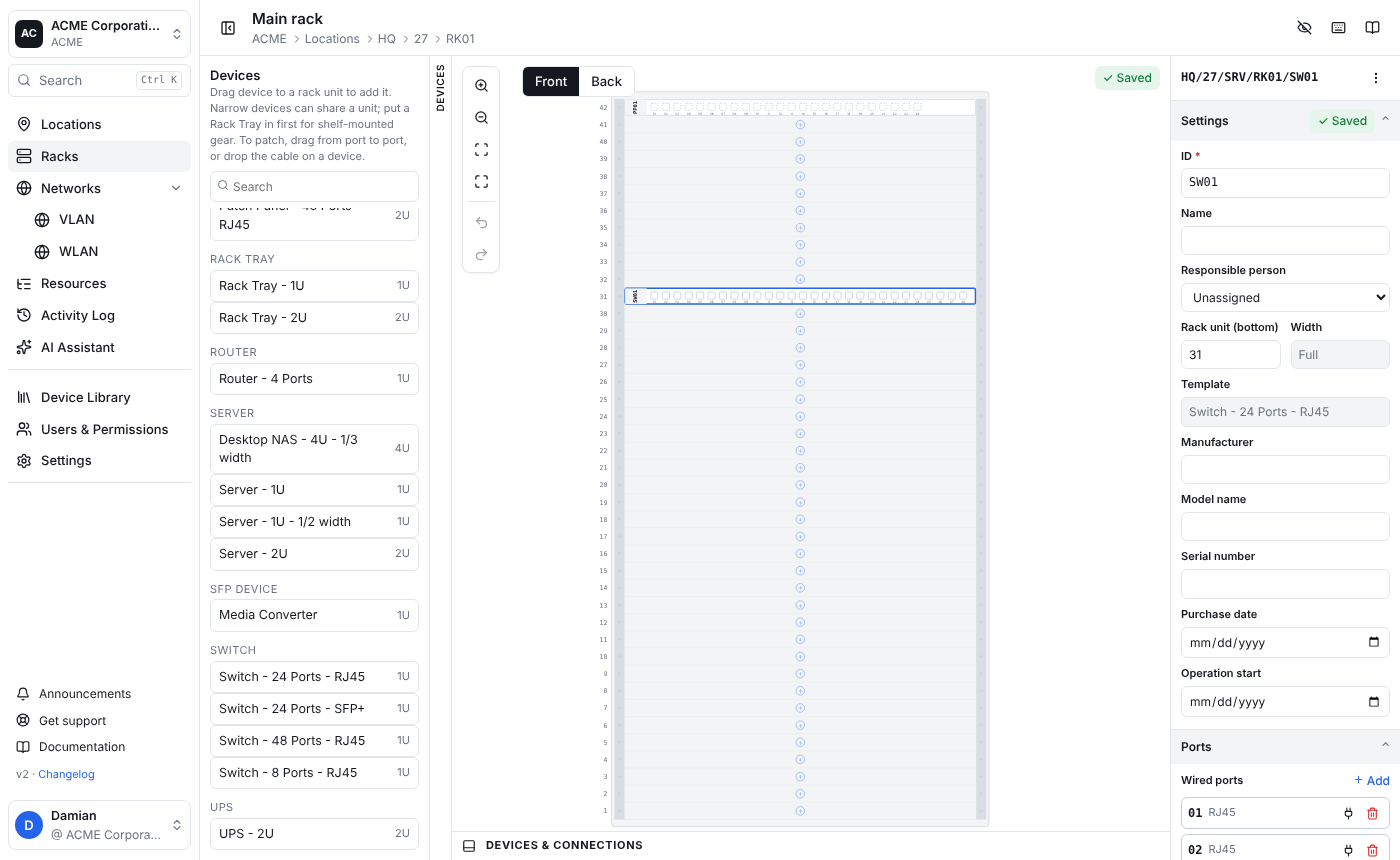
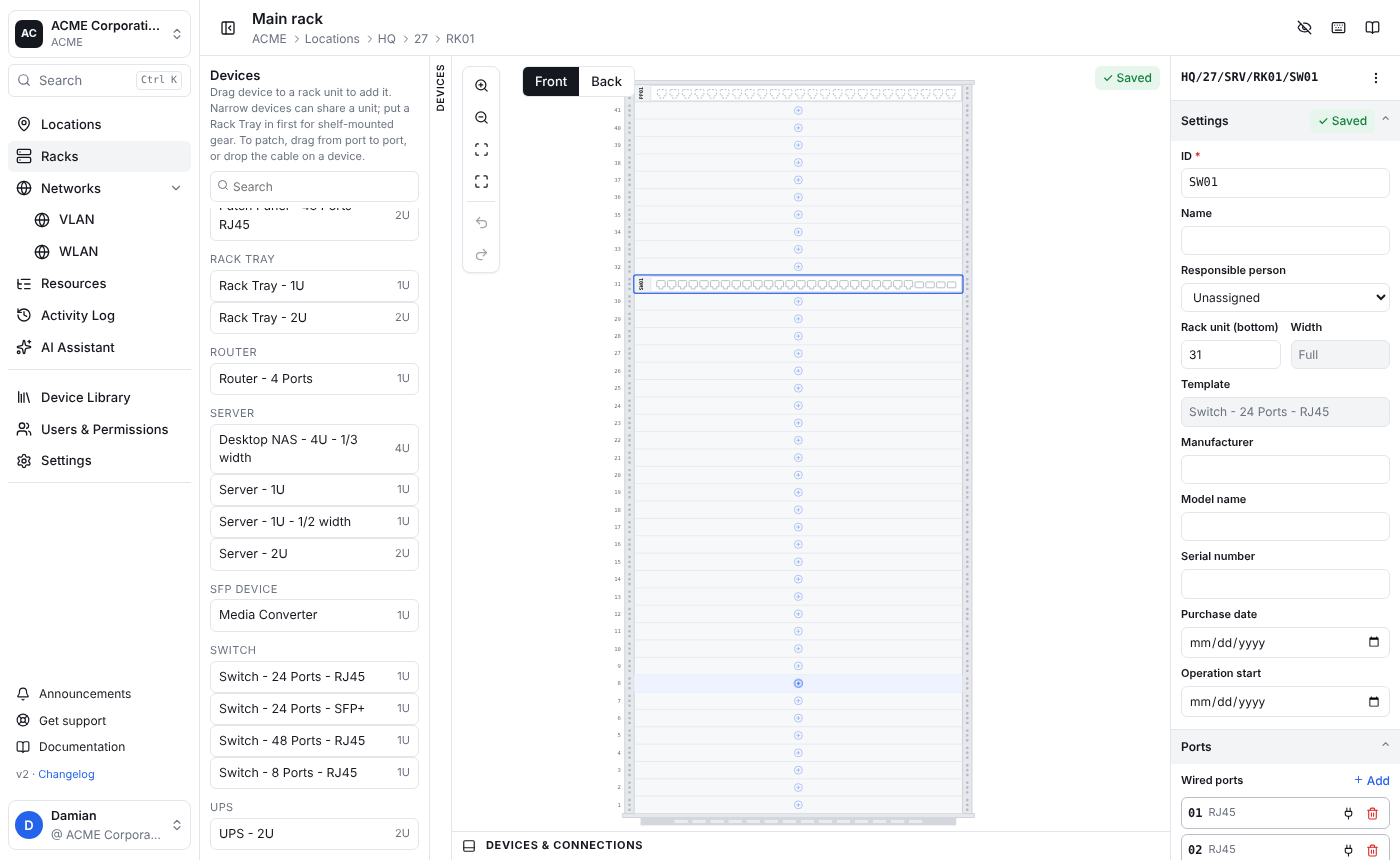
Rack editor: crisper rendering
Non-scaling 1px strokes so lines stay sharp at any zoom, RJ45/SFP/
fibre/power port glyphs with state fills, light rails with mounting
holes, caps and base, white panels with a label strip, cables routed
to a right-hand gutter with rounded corners and crossing-minimising
lane order, port names shown once zoomed in, hover feedback on ports,
devices and empty units, and a drop highlight for the target unit.

Claude-Session: https://claude.ai/code/session_011uBBfhKSoHq9VrWUfKxGfE

Changed region(s): [[0.43, 0.0907, 0.7064, 0.9674], [0.5529, 0.786, 0.5836, 0.8163]]

diff --git a/src/web/src/pages/RackEditor.tsx b/src/web/src/pages/RackEditor.tsx
@@ -12,7 +12,7 @@ import { ShortcutsHelp } from './LocationView';
 import { panelLayout } from './DeviceLibrary';
 import { zoomAt, type View } from '../components/canvas';
 
-const UH = 24; const RW = 520; const LEFT = 70; const RAIL = 14; const PAD = 16; const PAD_TOP = 60; const GUT = 80;
+const UH = 22; const RW = 440; const LEFT = 44; const RAIL = 12; const PAD = 22; const PAD_TOP = 36; const GUT = 76; const CAP = 5;
 const INNER = RW - RAIL * 2 - 2; // usable width inside the rails
 const snapSlot = (x: number, width: number) => Math.max(0, Math.min(100 - width, Math.round((x * 12) / 100) * (100 / 12)));
 const panelX = (d: { slot_x: number }) => LEFT + RAIL + 1 + (INNER * d.slot_x) / 100;
@@ -109,31 +109,66 @@ function TemplatePalette({ templates, canEdit }: { templates: Template[]; canEdi
     <div className="palette-list-items">{groups.map(([type, list]) => <div key={type}><div className="palette-group-label">{type}</div>{list.map((t) => <div key={t.id} className="palette-item-dev" draggable={canEdit} onDragStart={(e) => { e.dataTransfer.setData('text/rd-template', String(t.id)); e.dataTransfer.effectAllowed = 'copy'; }} title={`${t.height_u}U · ${t.ports.length} ports`}><span style={{ flex: 1 }}>{t.name}</span><span className="muted tiny">{t.height_u}U</span></div>)}</div>)}</div></div>;
 }
 
+/** Polyline → path with rounded corners (radius r). */
+function roundedPath(pts: [number, number][], r = 4) {
+  if (pts.length < 2) return '';
+  let d = `M ${pts[0][0]} ${pts[0][1]}`;
+  for (let i = 1; i < pts.length - 1; i++) {
+    const [px, py] = pts[i - 1], [cx, cy] = pts[i], [nx, ny] = pts[i + 1];
+    const d1 = Math.hypot(cx - px, cy - py), d2 = Math.hypot(nx - cx, ny - cy); const rr = Math.min(r, d1 / 2, d2 / 2);
+    const ax = cx - ((cx - px) / d1) * rr, ay = cy - ((cy - py) / d1) * rr; const bx = cx + ((nx - cx) / d2) * rr, by = cy + ((ny - cy) / d2) * rr;
+    d += ` L ${ax} ${ay} Q ${cx} ${cy} ${bx} ${by}`;
+  }
+  const [lx, ly] = pts[pts.length - 1]; return `${d} L ${lx} ${ly}`;
+}
+/** Connector glyph by port kind, drawn in an s×s box with its origin at the top-left. */
+function PortGlyph({ kind, s, fill, stroke, dashed }: { kind: string; s: number; fill: string; stroke: string; dashed?: boolean }) {
+  const common = { fill, stroke, strokeWidth: 1, vectorEffect: 'non-scaling-stroke' as const, strokeDasharray: dashed ? '2 1.5' : undefined };
+  if (kind === 'power') return <circle cx={s / 2} cy={s / 2} r={s / 2} {...common} />;
+  if (kind === 'sfp' || kind === 'sfp+' || kind === 'qsfp') return <rect x={0} y={s * 0.15} width={s} height={s * 0.7} rx={1} {...common} />;
+  if (kind === 'lc' || kind === 'sc' || kind === 'e2000' || kind === 'mpo') return <g><rect x={0} y={0} width={s} height={s} rx={1} {...common} /><circle cx={s * 0.32} cy={s / 2} r={s * 0.14} fill={stroke} /><circle cx={s * 0.68} cy={s / 2} r={s * 0.14} fill={stroke} /></g>;
+  // RJ45: square body with the latch tab at the bottom
+  const t = s * 0.28;
+  return <path d={`M 1 0 H ${s - 1} Q ${s} 0 ${s} 1 V ${s - t} H ${s * 0.72} V ${s} H ${s * 0.28} V ${s - t} H 0 V 1 Q 0 0 1 0 Z`} {...common} />;
+}
+
 function RackCanvas({ rack, face, view, setView, fitMode, selDev, selPort, canEdit, hoverChain, setHoverChain, vlanPorts, conns, onSelectDevice, onSelectPort, onEmptyClick, onDropTemplate, onMoveDevice, onConnect, onClearVlan, onKeystoneMissing, onWireToDevice }: {
   rack: RackDetail; face: Face; view: View; setView: (v: View) => void; fitMode: 'height' | 'width'; selDev: number | null; selPort: number | null; canEdit: boolean; hoverChain: Set<number> | null; setHoverChain: (s: Set<number> | null) => void; vlanPorts: Set<number> | null; conns: Connection[];
   onSelectDevice: (id: number | null) => void; onSelectPort: (dev: number, port: number) => void; onEmptyClick: (u: number) => void; onDropTemplate: (tplId: number, u: number) => void; onMoveDevice: (devId: number, u: number, slotX: number) => void; onConnect: (a: number, b: number) => void; onClearVlan: () => void; onKeystoneMissing: (p: Port, dev: RackDevice) => void; onWireToDevice: (fromPort: number, deviceId: number) => void }) {
   const svgRef = useRef<SVGSVGElement>(null);
-  const H = rack.height_u * UH + PAD + PAD_TOP; const W = LEFT + RW + GUT + 20;
+  const H = rack.height_u * UH + PAD + PAD_TOP; const W = LEFT + RW + GUT;
   const [drag, setDrag] = useState<null | { kind: 'pan'; sx: number; sy: number; v: View } | { kind: 'device'; id: number; startX: number; startY: number; dx: number; dy: number } | { kind: 'wire'; from: number; x: number; y: number }>(null);
+  const [dropU, setDropU] = useState<number | null>(null);
+  const [pxPerUnit, setPxPerUnit] = useState(1);
   const yOfTop = (topU: number) => PAD_TOP + (rack.height_u - topU) * UH;
   const scale = () => { const r = svgRef.current!.getBoundingClientRect(); return fitMode === 'height' ? Math.min(r.width / W, r.height / H) : r.width / W; };
+  useEffect(() => { const el = svgRef.current; if (!el) return; const upd = () => setPxPerUnit(scale() * view.k); upd(); const ro = new ResizeObserver(upd); ro.observe(el); return () => ro.disconnect(); }, [view.k, fitMode]); // eslint-disable-line react-hooks/exhaustive-deps
   const toSvg = (e: { clientX: number; clientY: number }) => { const r = svgRef.current!.getBoundingClientRect(); const s = scale(); const ox = fitMode === 'height' ? (r.width - W * s) / 2 : 0; return { x: ((e.clientX - r.left - ox) / s - view.tx) / view.k, y: ((e.clientY - r.top) / s - view.ty) / view.k }; };
+  const unitAt = (y: number) => Math.max(1, Math.min(rack.height_u, Math.ceil((H - PAD - y) / UH)));
   const occupied = useMemo(() => { const m = new Map<number, RackDevice>(); for (const d of rack.devices) { if (d.is_tray || d.width_pct < 100) continue; for (let u = d.position_u ?? 0; u < (d.position_u ?? 0) + d.height_u; u++) m.set(u, d); } return m; }, [rack]);
-  // port geometry (device id -> port id -> {x,y,s})
+  const labelWOf = (pw: number) => (pw < 200 ? 12 : 20);
+  // port geometry (port id -> {x,y,s})
   const geom = useMemo(() => {
     const g = new Map<number, { x: number; y: number; s: number; dev: RackDevice; port: Port }>();
     for (const d of rack.devices) {
       const ports = d.ports.filter((p) => p.face === face && p.kind !== 'wireless'); if (!ports.length) continue;
-      const h = d.height_u * UH; const pw = panelW(d); const labelW = pw < 200 ? 18 : 30; const { rows, cols, cell } = panelLayout(ports, d.height_u, pw + 50 - labelW - 6); const top = yOfTop((d.position_u ?? 1) + d.height_u - 1);
-      ports.forEach((p, i) => { const r = Math.floor(i / cols), c = i % cols; const s = Math.min(cell - 3, (h - 8) / rows - 6); const x = panelX(d) + labelW + 6 + c * cell; const y = top + 4 + r * (h - 8) / rows + 2; g.set(p.id, { x, y, s, dev: d, port: p }); });
+      const h = d.height_u * UH; const pw = panelW(d); const labelW = labelWOf(pw); const avail = pw - labelW - 12;
+      const maxRows = Math.max(1, Math.min(d.height_u * 2, 4)); let rows = 1; while (Math.ceil(ports.length / rows) * 11 > avail && rows < maxRows) rows++;
+      const cols = Math.ceil(ports.length / rows); const cell = Math.min(18, avail / cols); const rowH = (h - 6) / rows; const s = Math.max(4, Math.min(cell - 3, rowH - 5)); const top = yOfTop((d.position_u ?? 1) + d.height_u - 1);
+      const x0 = panelX(d) + labelW + 6 + (avail - cols * cell) / 2 + (cell - s) / 2;
+      ports.forEach((p, i) => { const r = Math.floor(i / cols), c = i % cols; g.set(p.id, { x: x0 + c * cell, y: top + 3 + r * rowH + (rowH - s) / 2 + 1, s, dev: d, port: p }); });
     }
     return g;
   }, [rack, face]); // eslint-disable-line react-hooks/exhaustive-deps
-  const rightX = LEFT + RW + 6;
-  const wires = conns.filter((c) => c.type === 'user' && geom.has(c.port_a_id) && geom.has(c.port_b_id)).map((c, i) => ({ c, a: geom.get(c.port_a_id)!, b: geom.get(c.port_b_id)!, lane: 8 + (i % 10) * 7 }));
+  const rightX = LEFT + RW + 8;
+  const wires = useMemo(() => {
+    const list = conns.filter((c) => c.type === 'user' && geom.has(c.port_a_id) && geom.has(c.port_b_id)).map((c) => ({ c, a: geom.get(c.port_a_id)!, b: geom.get(c.port_b_id)! }));
+    // shorter spans take inner lanes so cables cross as little as possible
+    return list.sort((p, q) => Math.abs(p.a.y - p.b.y) - Math.abs(q.a.y - q.b.y)).map((w, i) => ({ ...w, lane: 6 + (i % 11) * 6 }));
+  }, [conns, geom]);
   const outbound = conns.filter((c) => c.type === 'user' && (geom.has(c.port_a_id) !== geom.has(c.port_b_id))).map((c) => ({ c, g: geom.get(geom.has(c.port_a_id) ? c.port_a_id : c.port_b_id)! }));
   const chainOf = (p: Port) => new Set(p.chain?.steps.map((s) => s.port_id) ?? [p.id]);
-  const portFill = (p: Port, dev: RackDevice) => { if (dev.passive) return p.keystone ? (p.state === 'complete' ? 'var(--port-complete)' : p.state === 'incomplete' ? 'var(--port-incomplete)' : 'var(--port-keystone)') : 'none'; return p.state === 'complete' ? 'var(--port-complete)' : p.state === 'incomplete' ? 'var(--port-incomplete)' : 'none'; };
+  const portFill = (p: Port, dev: RackDevice) => { if (dev.passive && !p.keystone) return 'var(--surface)'; if (p.state === 'complete') return 'var(--port-complete)'; if (p.state === 'incomplete') return 'var(--port-incomplete)'; return dev.passive ? 'var(--port-keystone)' : 'var(--surface)'; };
   const onDown = (e: RPointerEvent<SVGSVGElement>) => { if (e.button !== 0) return; setDrag({ kind: 'pan', sx: e.clientX, sy: e.clientY, v: view }); };
   const onMove = (e: RPointerEvent<SVGSVGElement>) => { if (!drag) return; if (drag.kind === 'pan') { const s = scale(); setView({ ...drag.v, tx: drag.v.tx + (e.clientX - drag.sx) / s, ty: drag.v.ty + (e.clientY - drag.sy) / s }); } else if (drag.kind === 'device') setDrag({ ...drag, dx: (e.clientX - drag.startX) / (scale() * view.k), dy: (e.clientY - drag.startY) / (scale() * view.k) }); else if (drag.kind === 'wire') { const p = toSvg(e); setDrag({ ...drag, x: p.x, y: p.y }); } };
   const onUp = (e: RPointerEvent<SVGSVGElement>) => {
@@ -145,54 +180,74 @@ function RackCanvas({ rack, face, view, setView, fitMode, selDev, selPort, canEd
   };
   const dragY = (d: RackDevice) => drag?.kind === 'device' && drag.id === d.id ? drag.dy : 0;
   const dragX = (d: RackDevice) => drag?.kind === 'device' && drag.id === d.id ? drag.dx : 0;
-  const unitCenters = Array.from({ length: rack.height_u }, (_, i) => rack.height_u - i);
-  return <svg ref={svgRef} className="editor-canvas" viewBox={`0 0 ${W} ${H}`} preserveAspectRatio={fitMode === 'height' ? 'xMidYMin meet' : 'xMinYMin meet'} style={{ cursor: drag?.kind === 'pan' ? 'grabbing' : 'default' }}
+  const units = Array.from({ length: rack.height_u }, (_, i) => rack.height_u - i);
+  const showPortNames = pxPerUnit >= 1.9; const showUnitNumbers = pxPerUnit >= 0.55;
+  const ns = { vectorEffect: 'non-scaling-stroke' as const };
+  const railX = [LEFT, LEFT + RW - RAIL];
+  return <svg ref={svgRef} className="editor-canvas rack-svg" viewBox={`0 0 ${W} ${H}`} preserveAspectRatio={fitMode === 'height' ? 'xMidYMin meet' : 'xMinYMin meet'} style={{ cursor: drag?.kind === 'pan' ? 'grabbing' : 'default' }}
     onPointerDown={onDown} onPointerMove={onMove} onPointerUp={onUp} onPointerCancel={() => setDrag(null)}
     onWheel={(e) => { const p = toSvg(e); setView(zoomAt(view, e.deltaY < 0 ? 1.15 : 1 / 1.15, p.x * view.k + view.tx, p.y * view.k + view.ty)); }}
-    onDragOver={(e) => { if (canEdit && e.dataTransfer.types.includes('text/rd-template')) e.preventDefault(); }} onDrop={(e) => { const t = Number(e.dataTransfer.getData('text/rd-template')); if (!t) return; e.preventDefault(); const p = toSvg(e); const u = Math.max(1, Math.min(rack.height_u, Math.ceil((H - PAD - p.y) / UH))); onDropTemplate(t, u); }}>
+    onDragOver={(e) => { if (canEdit && e.dataTransfer.types.includes('text/rd-template')) { e.preventDefault(); setDropU(unitAt(toSvg(e).y)); } }} onDragLeave={() => setDropU(null)}
+    onDrop={(e) => { setDropU(null); const t = Number(e.dataTransfer.getData('text/rd-template')); if (!t) return; e.preventDefault(); onDropTemplate(t, unitAt(toSvg(e).y)); }}>
     <g transform={`translate(${view.tx} ${view.ty}) scale(${view.k})`} id="rack-export-root">
-      <rect x={LEFT - 4} y={PAD_TOP - 10} width={RW + 8} height={rack.height_u * UH + 20} rx={4} fill="var(--surface-2)" stroke="var(--border-strong)" />
-      <rect x={LEFT} y={PAD_TOP} width={RAIL} height={rack.height_u * UH} fill="var(--rack-rail)" /><rect x={LEFT + RW - RAIL} y={PAD_TOP} width={RAIL} height={rack.height_u * UH} fill="var(--rack-rail)" />
-      {unitCenters.map((u) => { const y = yOfTop(u); const occ = occupied.get(u);
-        // largest free horizontal gap in this unit (ignoring trays), for the "+" marker
+      {/* frame: interior, caps, rails with mounting holes, base */}
+      <rect x={LEFT + RAIL} y={PAD_TOP} width={RW - RAIL * 2} height={rack.height_u * UH} fill="var(--rack-interior)" />
+      <rect x={LEFT - 3} y={PAD_TOP - CAP} width={RW + 6} height={CAP} fill="var(--rack-rail)" stroke="var(--border-strong)" {...ns} />
+      <rect x={LEFT - 3} y={PAD_TOP + rack.height_u * UH} width={RW + 6} height={CAP} fill="var(--rack-rail)" stroke="var(--border-strong)" {...ns} />
+      <rect x={LEFT + 20} y={PAD_TOP + rack.height_u * UH + CAP} width={RW - 40} height={10} fill="var(--rack-base)" />
+      {Array.from({ length: 14 }, (_, i) => <rect key={i} x={LEFT + 60 + i * ((RW - 120) / 14) + 3} y={PAD_TOP + rack.height_u * UH + CAP + 3} width={(RW - 120) / 14 - 6} height={4} fill="var(--surface)" opacity={0.5} />)}
+      {railX.map((x) => <rect key={x} x={x} y={PAD_TOP} width={RAIL} height={rack.height_u * UH} fill="var(--rack-rail)" stroke="var(--border-strong)" {...ns} />)}
+      {units.map((u) => { const y = yOfTop(u); const occ = occupied.get(u);
         const spans = rack.devices.filter((d) => !d.is_tray && (d.position_u ?? 0) <= u && u <= (d.position_u ?? 0) + d.height_u - 1).map((d) => [d.slot_x, d.slot_x + d.width_pct] as [number, number]).sort((a, b) => a[0] - b[0]);
         let gap: [number, number] = [0, 0]; let cur = 0; for (const [a, b] of spans) { if (a - cur > gap[1] - gap[0]) gap = [cur, a]; cur = Math.max(cur, b); } if (100 - cur > gap[1] - gap[0]) gap = [cur, 100];
         const gapW = gap[1] - gap[0]; const plusX = LEFT + RAIL + 1 + (INNER * (gap[0] + gap[1])) / 200;
-        return <g key={u}>
-        <text x={LEFT - 10} y={y + UH / 2 + 3.5} fontSize={9} textAnchor="end" fill="var(--muted)" fontFamily="var(--mono)">{u}</text>
-        <circle cx={LEFT + RAIL / 2} cy={y + UH / 2} r={2} fill="var(--border-strong)" /><circle cx={LEFT + RW - RAIL / 2} cy={y + UH / 2} r={2} fill="var(--border-strong)" />
-        {!occ && <g style={{ cursor: canEdit ? 'pointer' : 'default' }} onPointerDown={(e) => e.stopPropagation()} onClick={() => onEmptyClick(u)}><rect x={LEFT + RAIL} y={y} width={RW - RAIL * 2} height={UH} fill="transparent" /><line x1={LEFT + RAIL} x2={LEFT + RW - RAIL} y1={y + UH} y2={y + UH} stroke="var(--border)" strokeWidth={0.5} />{canEdit && gapW >= 8 && <g opacity={0.5}><circle cx={plusX} cy={y + UH / 2} r={6} fill="none" stroke="var(--primary)" strokeWidth={1} /><text x={plusX} y={y + UH / 2 + 3.5} fontSize={10} textAnchor="middle" fill="var(--primary)">+</text></g>}<title>{canEdit ? `Add device at U${u}` : `U${u} empty`}</title></g>}
-      </g>; })}
-      {[...rack.devices].sort((a, b) => (b.is_tray - a.is_tray)).map((d) => { const top = yOfTop((d.position_u ?? 1) + d.height_u - 1) + dragY(d); const h = d.height_u * UH; const active = selDev === d.id; const tpl = d.template_name ?? d.type_name; const px = panelX(d) + dragX(d); const pw = panelW(d); const labelW = pw < 200 ? 18 : 30;
-        return <g key={d.id} data-device={d.id} transform={`translate(0 ${top})`} style={{ cursor: canEdit ? 'grab' : 'pointer' }} onPointerDown={(e) => { e.stopPropagation(); if (!canEdit) { onSelectDevice(d.id); return; } setDrag({ kind: 'device', id: d.id, startX: e.clientX, startY: e.clientY, dx: 0, dy: 0 }); (e.currentTarget as Element).setPointerCapture?.(e.pointerId); }} onPointerUp={(e) => { if (drag?.kind === 'device') { e.stopPropagation(); onUp(e as unknown as RPointerEvent<SVGSVGElement>); } else if (!canEdit) onSelectDevice(d.id); }}>
+        return <g key={u} className="rack-unit">
+          {showUnitNumbers && <text x={LEFT - 5} y={y + UH / 2 + 2.5} fontSize={7} textAnchor="end" fill="var(--muted)" fontFamily="var(--mono)" style={{ pointerEvents: 'none' }}>{u}</text>}
+          {railX.map((x) => [0.22, 0.5, 0.78].map((f) => <rect key={`${x}-${f}`} x={x + RAIL / 2 - 1.5} y={y + UH * f - 1.5} width={3} height={3} rx={0.6} fill="var(--rack-hole)" />))}
+          <line x1={LEFT + RAIL} x2={LEFT + RW - RAIL} y1={y + UH} y2={y + UH} stroke="var(--border)" strokeWidth={1} opacity={0.7} {...ns} />
+          {!occ && <g style={{ cursor: canEdit ? 'pointer' : 'default' }} onPointerDown={(e) => e.stopPropagation()} onClick={() => onEmptyClick(u)}>
+            <rect className="unit-bg" x={LEFT + RAIL} y={y} width={RW - RAIL * 2} height={UH} fill={dropU === u ? 'var(--accent)' : 'transparent'} />
+            {dropU === u && <rect x={LEFT + RAIL + 1} y={y + 1} width={RW - RAIL * 2 - 2} height={UH - 2} rx={2} fill="none" stroke="var(--primary)" strokeWidth={1.5} strokeDasharray="4 3" {...ns} />}
+            {canEdit && gapW >= 8 && <g className="plus" style={{ pointerEvents: 'none' }}><circle cx={plusX} cy={y + UH / 2} r={5} fill="var(--surface)" stroke="var(--primary)" strokeWidth={1} {...ns} /><path d={`M ${plusX - 2.5} ${y + UH / 2} H ${plusX + 2.5} M ${plusX} ${y + UH / 2 - 2.5} V ${y + UH / 2 + 2.5}`} stroke="var(--primary)" strokeWidth={1.2} {...ns} /></g>}
+            <title>{canEdit ? `Add device at U${u}` : `U${u} empty`}</title></g>}
+        </g>; })}
+      {[...rack.devices].sort((a, b) => (b.is_tray - a.is_tray)).map((d) => { const top = yOfTop((d.position_u ?? 1) + d.height_u - 1) + dragY(d); const h = d.height_u * UH; const active = selDev === d.id; const tpl = d.template_name ?? d.type_name; const px = panelX(d) + dragX(d); const pw = panelW(d); const labelW = labelWOf(pw); const dragging = drag?.kind === 'device' && drag.id === d.id;
+        const tplColor = rack.devices && (d as unknown as { color?: string }).color; void tplColor;
+        return <g key={d.id} data-device={d.id} className="rack-dev" transform={`translate(0 ${top})`} style={{ cursor: canEdit ? 'grab' : 'pointer' }} opacity={dragging ? 0.8 : 1} onPointerDown={(e) => { e.stopPropagation(); if (!canEdit) { onSelectDevice(d.id); return; } setDrag({ kind: 'device', id: d.id, startX: e.clientX, startY: e.clientY, dx: 0, dy: 0 }); (e.currentTarget as Element).setPointerCapture?.(e.pointerId); }} onPointerUp={(e) => { if (drag?.kind === 'device') { e.stopPropagation(); onUp(e as unknown as RPointerEvent<SVGSVGElement>); } else if (!canEdit) onSelectDevice(d.id); }}>
           {d.is_tray ? <>
-            <rect x={px} y={1} width={pw} height={h - 2} rx={2} fill="var(--surface-3)" stroke={active ? 'var(--primary)' : 'var(--border-strong)'} strokeWidth={active ? 2 : 1} strokeDasharray={active ? undefined : '4 3'} opacity={drag?.kind === 'device' && drag.id === d.id ? 0.75 : 1} />
-            <rect x={px} y={h - 5} width={pw} height={4} fill="var(--border-strong)" />
-            <text x={px + 6} y={h - 8} fontSize={7} fill="var(--muted)" fontFamily="var(--mono)" fontWeight={700}>{d.code} · tray</text>
+            <rect className="body" x={px} y={1} width={pw} height={h - 2} rx={1.5} fill="var(--rack-tray)" stroke={active ? 'var(--primary)' : 'var(--border-strong)'} strokeWidth={active ? 1.5 : 1} strokeDasharray={active ? undefined : '3 2'} {...ns} />
+            <rect x={px} y={h - 4} width={pw} height={3} fill="var(--border-strong)" />
+            <text x={px + 5} y={h - 7} fontSize={6} fill="var(--muted)" fontFamily="var(--mono)" fontWeight={700} style={{ pointerEvents: 'none' }}>{d.code} · tray</text>
           </> : <>
-            <rect x={px} y={1} width={pw} height={h - 2} rx={2} fill="var(--surface)" stroke={active ? 'var(--primary)' : 'var(--border-strong)'} strokeWidth={active ? 2 : 1} opacity={drag?.kind === 'device' && drag.id === d.id ? 0.75 : 1} />
-            <rect x={px} y={1} width={labelW} height={h - 2} fill="var(--surface-2)" />
-            <text transform={`translate(${px + labelW / 2 + 1} ${h / 2}) rotate(-90)`} fontSize={labelW < 30 ? 6.5 : h > 30 ? 9 : 7.5} fontWeight={700} textAnchor="middle" fill="var(--text)" fontFamily="var(--mono)">{d.code}</text>
-            {d.ports.filter((p) => p.face === face && p.kind !== 'wireless').length === 0 && <text x={px + labelW + (pw - labelW) / 2} y={h / 2 + 3.5} fontSize={pw < 200 ? 7 : 9} textAnchor="middle" fill="var(--muted)">{(tpl + (d.name ? ` · ${d.name}` : '')).slice(0, pw < 200 ? 22 : 60)}</text>}
+            {active && <rect x={px - 1.5} y={-0.5} width={pw + 3} height={h + 1} rx={2.5} fill="none" stroke="var(--primary)" strokeWidth={1.5} opacity={0.9} {...ns} />}
+            <rect className="body" x={px} y={1} width={pw} height={h - 2} rx={1.5} fill="var(--rack-panel)" stroke="var(--border-strong)" strokeWidth={1} {...ns} />
+            <rect x={px} y={1} width={labelW} height={h - 2} fill="var(--rack-label)" />
+            <line x1={px + labelW} x2={px + labelW} y1={1} y2={h - 1} stroke="var(--border)" strokeWidth={1} {...ns} />
+            <text transform={`translate(${px + labelW / 2 + 0.5} ${h / 2}) rotate(-90)`} fontSize={labelW < 20 ? 5.5 : h > 30 ? 7.5 : 6.5} fontWeight={700} textAnchor="middle" fill="var(--text)" fontFamily="var(--mono)" style={{ pointerEvents: 'none' }}>{d.code}</text>
+            {d.ports.filter((p) => p.face === face && p.kind !== 'wireless').length === 0 && <text x={px + labelW + (pw - labelW) / 2} y={h / 2 + 2.5} fontSize={pw < 200 ? 6 : 7} textAnchor="middle" fill="var(--muted)" style={{ pointerEvents: 'none' }}>{(tpl + (d.name ? ` · ${d.name}` : '')).slice(0, pw < 200 ? 22 : 64)}</text>}
           </>}
           <title>{d.path} · {tpl}{d.name ? ` · ${d.name}` : ''}{d.width_pct < 100 ? ` · ${d.width_pct}% width` : ''}</title>
         </g>; })}
-      {[...geom.values()].map(({ x, y, s, dev, port }) => { const top = dragY(dev); const chainHi = hoverChain?.has(port.id); const vlanHi = vlanPorts?.has(port.id); const sel = selPort === port.id; const fill = portFill(port, dev);
-        const stroke = chainHi ? '#eab308' : sel ? 'var(--primary)' : vlanHi ? 'var(--amber)' : dev.passive && !port.keystone ? 'var(--port-none)' : fill === 'none' ? 'var(--port-none)' : fill;
+      {wires.map(({ c, a, b, lane }) => { const hi = hoverChain?.has(c.port_a_id); const col = hi ? '#eab308' : (c.chain?.color || 'var(--user)'); const ax = a.x + a.s / 2 + dragX(a.dev), ay = a.y + a.s / 2 + dragY(a.dev), bx = b.x + b.s / 2 + dragX(b.dev), by = b.y + b.s / 2 + dragY(b.dev); const lx = rightX + lane; const ca = ay - a.s / 2 - 2.5, cb = by - b.s / 2 - 2.5;
+        return <path key={c.id} d={roundedPath([[ax, ay], [ax, ca], [lx, ca], [lx, cb], [bx, cb], [bx, by]], 4)} fill="none" stroke={col} strokeWidth={hi ? 1.8 : 1.2} strokeLinecap="round" opacity={hoverChain && !hi ? 0.2 : 0.95} style={{ pointerEvents: 'none' }} {...ns} />; })}
+      {[...geom.values()].map(({ x, y, s, dev, port }) => { const top = dragY(dev); const chainHi = hoverChain?.has(port.id); const vlanHi = vlanPorts?.has(port.id); const sel = selPort === port.id; const fill = portFill(port, dev); const empty = fill === 'var(--surface)';
+        const stroke = chainHi ? '#eab308' : sel ? 'var(--primary)' : vlanHi ? 'var(--amber)' : empty ? 'var(--port-none)' : fill;
         return <g key={port.id} transform={`translate(${x + dragX(dev)} ${y + top})`} data-port={port.id} style={{ cursor: canEdit ? 'crosshair' : 'pointer' }}
           onPointerEnter={() => port.state !== 'none' && setHoverChain(chainOf(port))} onPointerLeave={() => setHoverChain(null)}
           onPointerDown={(e) => { e.stopPropagation(); if (canEdit && !port.user && (!dev.passive || port.keystone)) { const p = toSvg(e); setDrag({ kind: 'wire', from: port.id, x: p.x, y: p.y }); (e.target as Element).setPointerCapture?.(e.pointerId); } else if (canEdit && dev.passive && !port.keystone) onKeystoneMissing(port, dev); }}
           onPointerUp={(e) => { e.stopPropagation(); if (drag?.kind === 'wire') { onUp(e as unknown as RPointerEvent<SVGSVGElement>); if (Math.abs(drag.x) < 1) onSelectPort(dev.id, port.id); } else onSelectPort(dev.id, port.id); if (drag?.kind === 'wire' && drag.from === port.id) onSelectPort(dev.id, port.id); }}>
-          <rect x={0} y={0} width={s} height={s} rx={1.5} fill={fill === 'none' ? 'var(--surface)' : fill} stroke={stroke} strokeWidth={chainHi || sel || vlanHi ? 2 : 1.2} strokeDasharray={dev.passive && !port.keystone ? '2 1.5' : undefined} />
-          {chainHi && <rect x={-1.5} y={-1.5} width={s + 3} height={s + 3} rx={2} fill="none" stroke="#eab308" strokeWidth={1} opacity={0.6} />}
-          {vlanHi && port.vlan_id && <circle cx={s} cy={0} r={2} fill="var(--amber)" />}
-          <text x={s / 2} y={s + 6} fontSize={4.2} textAnchor="middle" fill="var(--muted)" style={{ pointerEvents: 'none' }}>{port.name.length > 5 ? port.name.slice(0, 4) + '…' : port.name}</text>
+          <rect x={-2} y={-2} width={s + 4} height={s + 4} fill="transparent" />
+          <g className="glyph">
+            {(sel || chainHi || vlanHi) && <rect x={-1.5} y={-1.5} width={s + 3} height={s + 3} rx={1.5} fill="none" stroke={stroke} strokeWidth={1} opacity={0.7} {...ns} />}
+            <PortGlyph kind={port.kind} s={s} fill={fill} stroke={stroke} dashed={dev.passive === 1 && !port.keystone} />
+            {vlanHi && port.vlan_id && <circle cx={s} cy={0} r={1.6} fill="var(--amber)" />}
+          </g>
+          {showPortNames && <text x={s / 2} y={-1.2} fontSize={3.4} textAnchor="middle" fill="var(--muted)" fontFamily="var(--mono)" style={{ pointerEvents: 'none' }}>{port.name.length > 5 ? port.name.slice(0, 4) + '…' : port.name}</text>}
           <title>{port.path} · {port.kind}{port.vlan_vid != null ? ` · VLAN ${port.vlan_vid}` : ''} · {dev.passive && !port.keystone ? 'no building connection (no keystone)' : port.state === 'none' ? 'unconnected' : port.state}</title>
         </g>; })}
-      {wires.map(({ c, a, b, lane }) => { const hi = hoverChain?.has(c.port_a_id); const col = hi ? '#eab308' : (c.chain?.color || 'var(--user)'); const ax = a.x + a.s / 2 + dragX(a.dev), ay = a.y + a.s / 2 + dragY(a.dev), bx = b.x + b.s / 2 + dragX(b.dev), by = b.y + b.s / 2 + dragY(b.dev); const lx = rightX + lane;
-        return <path key={c.id} d={`M ${ax} ${ay} L ${ax} ${ay - a.s} L ${lx} ${ay - a.s} L ${lx} ${by - b.s} L ${bx} ${by - b.s} L ${bx} ${by}`} fill="none" stroke={col} strokeWidth={hi ? 2 : 1.2} opacity={hoverChain && !hi ? 0.25 : 0.9} style={{ pointerEvents: 'none' }} />; })}
-      {outbound.map(({ c, g }) => { const hi = hoverChain?.has(g.port.id); return <g key={c.id} transform={`translate(${g.x + g.s / 2 + dragX(g.dev)} ${g.y - 2 + dragY(g.dev)})`} style={{ pointerEvents: 'none' }}><line x1={0} y1={0} x2={0} y2={-6} stroke={hi ? '#eab308' : (c.chain?.color || 'var(--user)')} strokeWidth={1.2} /><rect x={-14} y={-14} width={28} height={8} rx={2} fill="var(--text)" /><text x={0} y={-8} fontSize={5} textAnchor="middle" fill="var(--bg)" fontWeight={700}>⇗ OUTBOUND</text></g>; })}
-      {drag?.kind === 'wire' && geom.get(drag.from) && <line x1={geom.get(drag.from)!.x + geom.get(drag.from)!.s / 2} y1={geom.get(drag.from)!.y + geom.get(drag.from)!.s / 2} x2={drag.x} y2={drag.y} stroke="var(--primary)" strokeWidth={1.5} strokeDasharray="4 3" style={{ pointerEvents: 'none' }} />}
+      {outbound.map(({ c, g }) => { const hi = hoverChain?.has(g.port.id); const col = hi ? '#eab308' : (c.chain?.color || 'var(--user)'); const x = g.x + g.s / 2 + dragX(g.dev), y = g.y + dragY(g.dev);
+        return <g key={c.id} transform={`translate(${x} ${y})`} style={{ pointerEvents: 'none' }}><path d={roundedPath([[0, g.s / 2], [0, -4], [10, -4], [10, -9]], 2)} fill="none" stroke={col} strokeWidth={1.2} {...ns} /><rect x={4} y={-15.5} width={30} height={7} rx={1.5} fill="var(--text)" /><text x={19} y={-10.3} fontSize={4.2} textAnchor="middle" fill="var(--bg)" fontWeight={700} letterSpacing={0.3}>⇗ OUTBOUND</text></g>; })}
+      {drag?.kind === 'wire' && geom.get(drag.from) && <path d={`M ${geom.get(drag.from)!.x + geom.get(drag.from)!.s / 2} ${geom.get(drag.from)!.y + geom.get(drag.from)!.s / 2} L ${drag.x} ${drag.y}`} fill="none" stroke="var(--primary)" strokeWidth={1.5} strokeDasharray="4 3" strokeLinecap="round" style={{ pointerEvents: 'none' }} {...ns} />}
     </g>
   </svg>;
 }
@@ -214,7 +269,7 @@ function AddRackDeviceForm({ rack, templates, position, templateId, onDone }: { 
 function exportPng(name: string) {
   const svg = document.querySelector('svg.editor-canvas') as SVGSVGElement | null; if (!svg) return;
   const clone = svg.cloneNode(true) as SVGSVGElement; const vb = svg.viewBox.baseVal; clone.setAttribute('width', String(vb.width * 2)); clone.setAttribute('height', String(vb.height * 2));
-  const css = getComputedStyle(document.documentElement); const vars = ['--surface', '--surface-2', '--border', '--border-strong', '--text', '--muted', '--primary', '--port-none', '--port-complete', '--port-incomplete', '--port-keystone', '--rack-rail', '--user', '--amber', '--bg', '--mono'];
+  const css = getComputedStyle(document.documentElement); const vars = ['--surface', '--surface-2', '--border', '--border-strong', '--text', '--muted', '--primary', '--port-none', '--port-complete', '--port-incomplete', '--port-keystone', '--rack-rail', '--rack-interior', '--rack-hole', '--rack-base', '--rack-panel', '--rack-label', '--rack-tray', '--accent', '--user', '--amber', '--bg', '--mono'];
   let xml = new XMLSerializer().serializeToString(clone); for (const v of vars) xml = xml.split(`var(${v})`).join(css.getPropertyValue(v).trim() || '#000');
   const blob = new Blob([xml], { type: 'image/svg+xml' }); const url = URL.createObjectURL(blob); const img = new Image();
   img.onload = () => { const c = document.createElement('canvas'); c.width = vb.width * 2; c.height = vb.height * 2; const ctx = c.getContext('2d')!; ctx.fillStyle = css.getPropertyValue('--surface').trim() || '#fff'; ctx.fillRect(0, 0, c.width, c.height); ctx.drawImage(img, 0, 0); const a = document.createElement('a'); a.download = `${name}.png`; a.href = c.toDataURL('image/png'); a.click(); URL.revokeObjectURL(url); };

diff --git a/src/web/src/styles.css b/src/web/src/styles.css
@@ -3,13 +3,13 @@
   --bg: #f6f7f9; --surface: #ffffff; --surface-2: #f3f4f6; --surface-3: #e9ebef; --border: #e2e5ea; --border-strong: #cfd4dc;
   --text: #15181e; --muted: #6b7280; --primary: #2563eb; --primary-text: #fff; --danger: #dc2626; --ok: #16a34a; --amber: #f59e0b; --accent: #eef3ff;
   --building: #f59e0b; --user: #2563eb; --pin: #15181e; --pin-rack: #16a34a; --pin-passive: #6b7280;
-  --port-none: #c9cfd9; --port-complete: #2563eb; --port-incomplete: #93b4f5; --port-keystone: #15181e; --rack-rail: #d9dde3;
+  --port-none: #b8bfca; --port-complete: #2563eb; --port-incomplete: #93b4f5; --port-keystone: #1f2328; --rack-rail: #e6e8ec; --rack-interior: #f7f8fa; --rack-hole: #b4bac4; --rack-base: #d4d8de; --rack-panel: #ffffff; --rack-label: #f0f2f5; --rack-tray: #eceef2;
   --shadow: 0 1px 2px rgba(16,24,40,.06); --radius: 8px; --font: 'Inter', system-ui, -apple-system, 'Segoe UI', Roboto, sans-serif; --mono: ui-monospace, SFMono-Regular, Menlo, Consolas, monospace;
   --menu-w: 200px; --sidebar-w: 190px; --palette-w: 190px;
 }
 :root[data-theme="dark"] {
   --bg: #0f1115; --surface: #171a20; --surface-2: #1f232b; --surface-3: #272c36; --border: #2b303a; --border-strong: #3a4150;
-  --text: #e8eaee; --muted: #9aa3b2; --primary: #4f83f1; --accent: #1b2742; --pin: #e8eaee; --port-none: #3a4150; --rack-rail: #2b303a; --shadow: 0 1px 2px rgba(0,0,0,.4);
+  --text: #e8eaee; --muted: #9aa3b2; --primary: #4f83f1; --accent: #1b2742; --pin: #e8eaee; --port-none: #4b5363; --port-keystone: #e8eaee; --rack-rail: #262b34; --rack-interior: #13161b; --rack-hole: #3a4150; --rack-base: #2b303a; --rack-panel: #1c2027; --rack-label: #242932; --rack-tray: #1f232b; --shadow: 0 1px 2px rgba(0,0,0,.4);
 }
 * { box-sizing: border-box; }
 html, body { margin: 0; background: var(--bg); color: var(--text); font-family: var(--font); font-size: 13px; line-height: 1.45; }
@@ -245,3 +245,11 @@ kbd { font-family: var(--mono); font-size: 10px; border: 1px solid var(--border)
 .ai-composer { border-top: 1px solid var(--border); background: var(--surface); padding: 10px 14px; display: flex; flex-direction: column; gap: 6px; }
 .ai-row { display: flex; gap: 8px; align-items: flex-end; } .ai-row textarea { flex: 1; resize: vertical; min-height: 44px; }
 @media (max-width: 800px) { .ai-list { display: none; } }
+
+/* Rack editor polish */
+.rack-svg text { user-select: none; }
+.rack-svg .rack-unit .plus { opacity: .35; transition: opacity .12s; } .rack-svg .rack-unit:hover .plus { opacity: 1; }
+.rack-svg .rack-unit:hover .unit-bg { fill: var(--accent); }
+.rack-svg .rack-dev:hover > rect.body { stroke: var(--text); }
+.rack-svg g[data-port] .glyph { transform-box: fill-box; transform-origin: center; transition: transform .1s ease; }
+.rack-svg g[data-port]:hover .glyph { transform: scale(1.45); }
